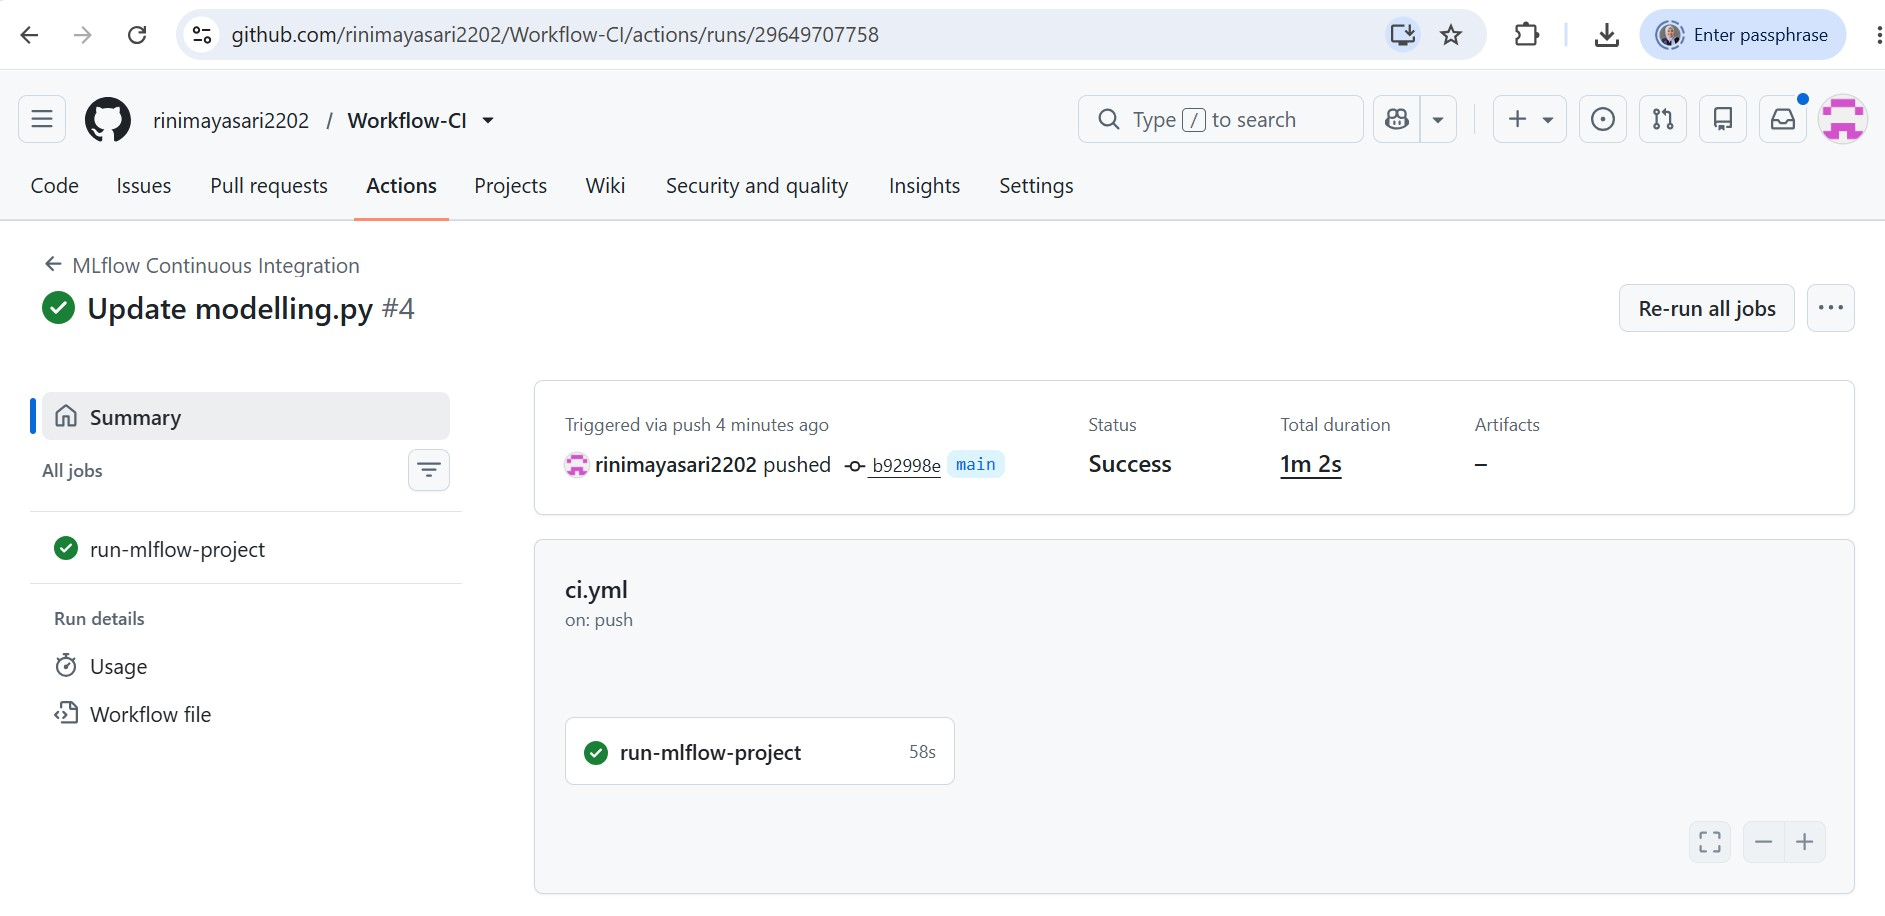
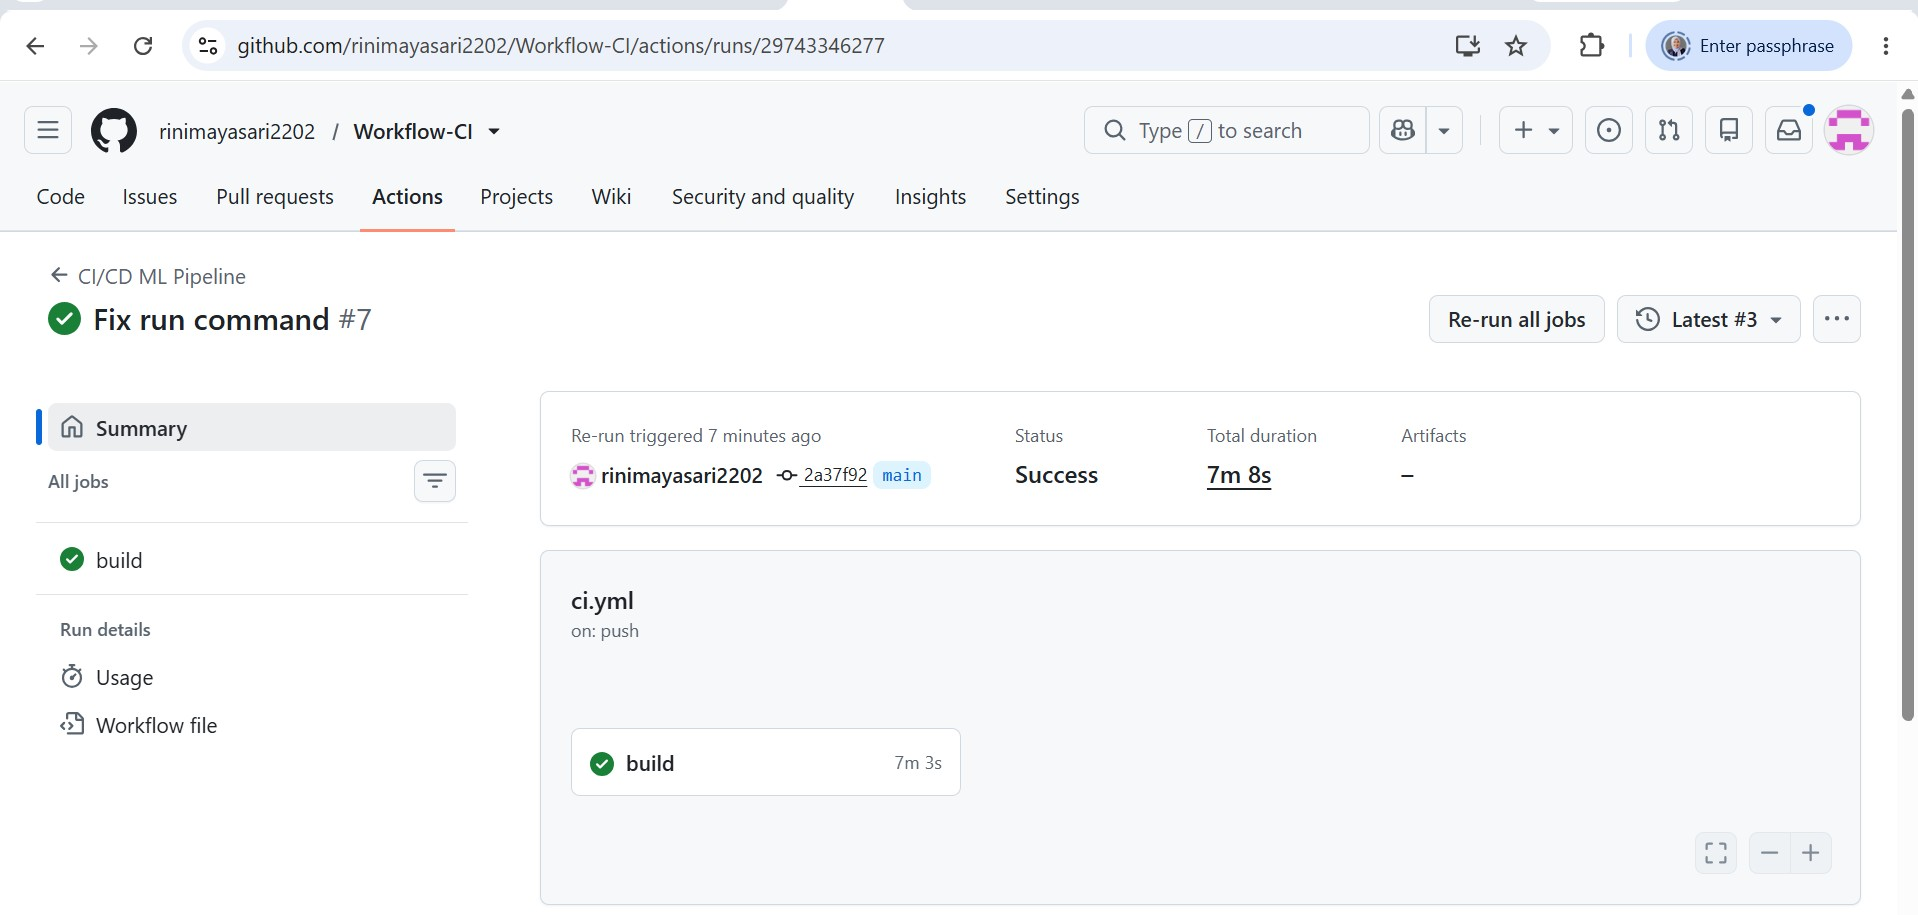
Update modelling.py with dagshub integration and fix ci.yml

diff --git a/MLProject/modelling.py b/MLProject/modelling.py
@@ -1,3 +1,9 @@
+import mlflow
+import dagshub
+
+# Tambahkan baris ini di bagian atas file
+dagshub.init(repo_owner='rinimayasari2202', repo_name='Workflow-CI', mlflow=True)
+
 import pandas as pd
 import mlflow
 import mlflow.sklearn